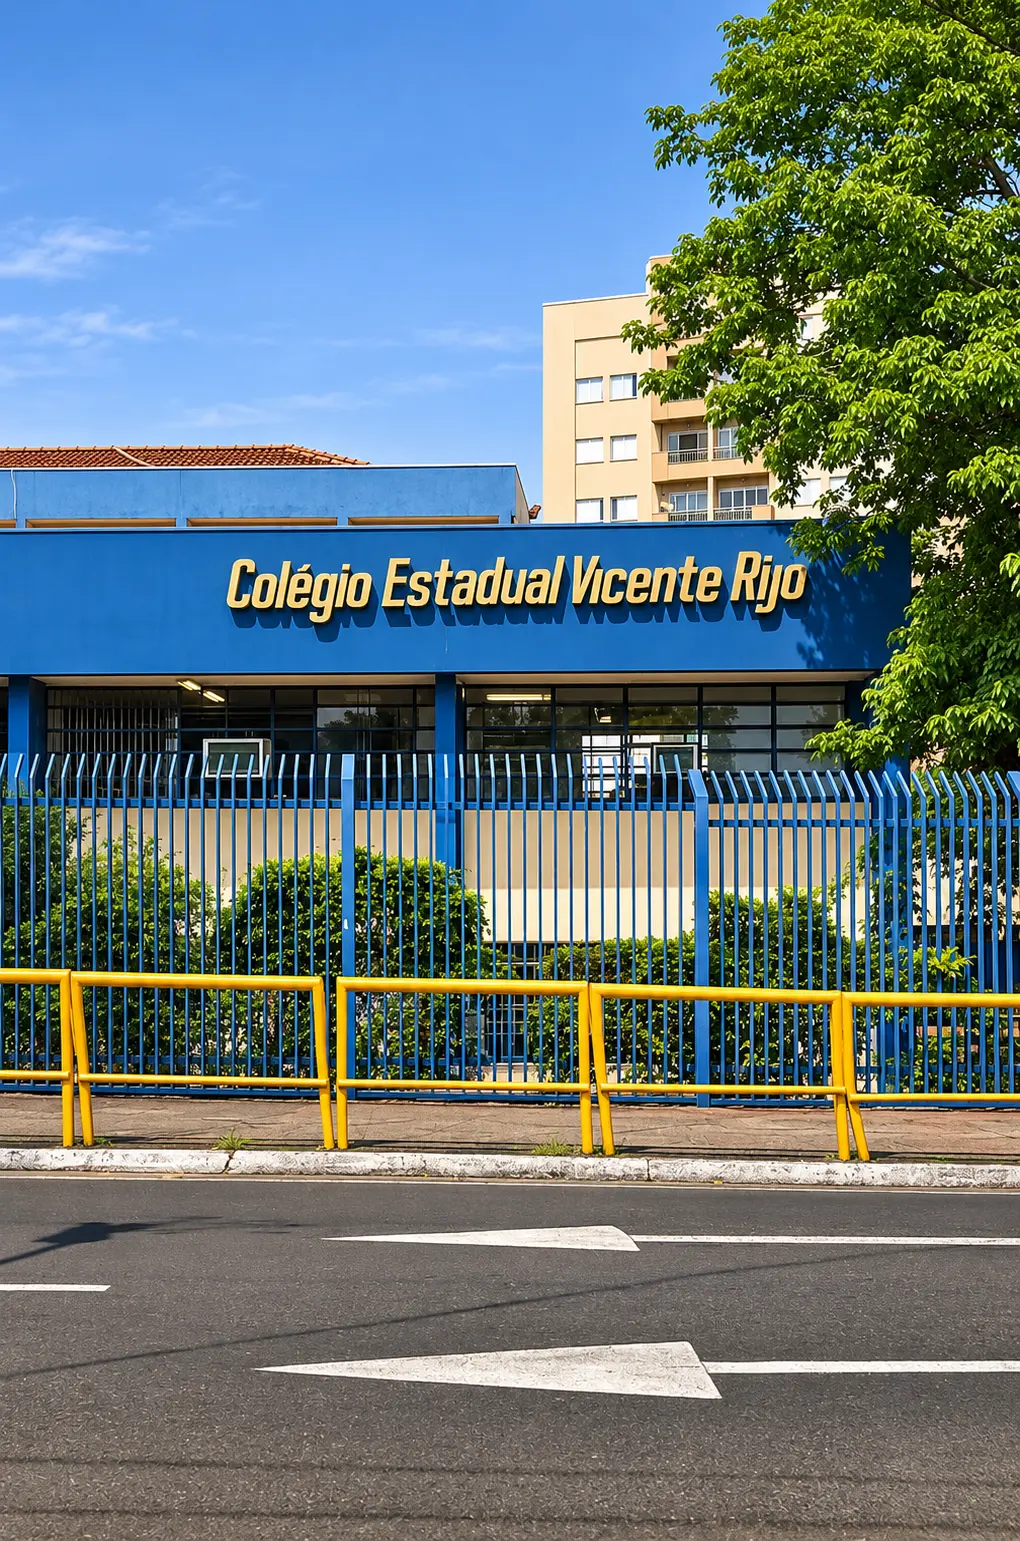
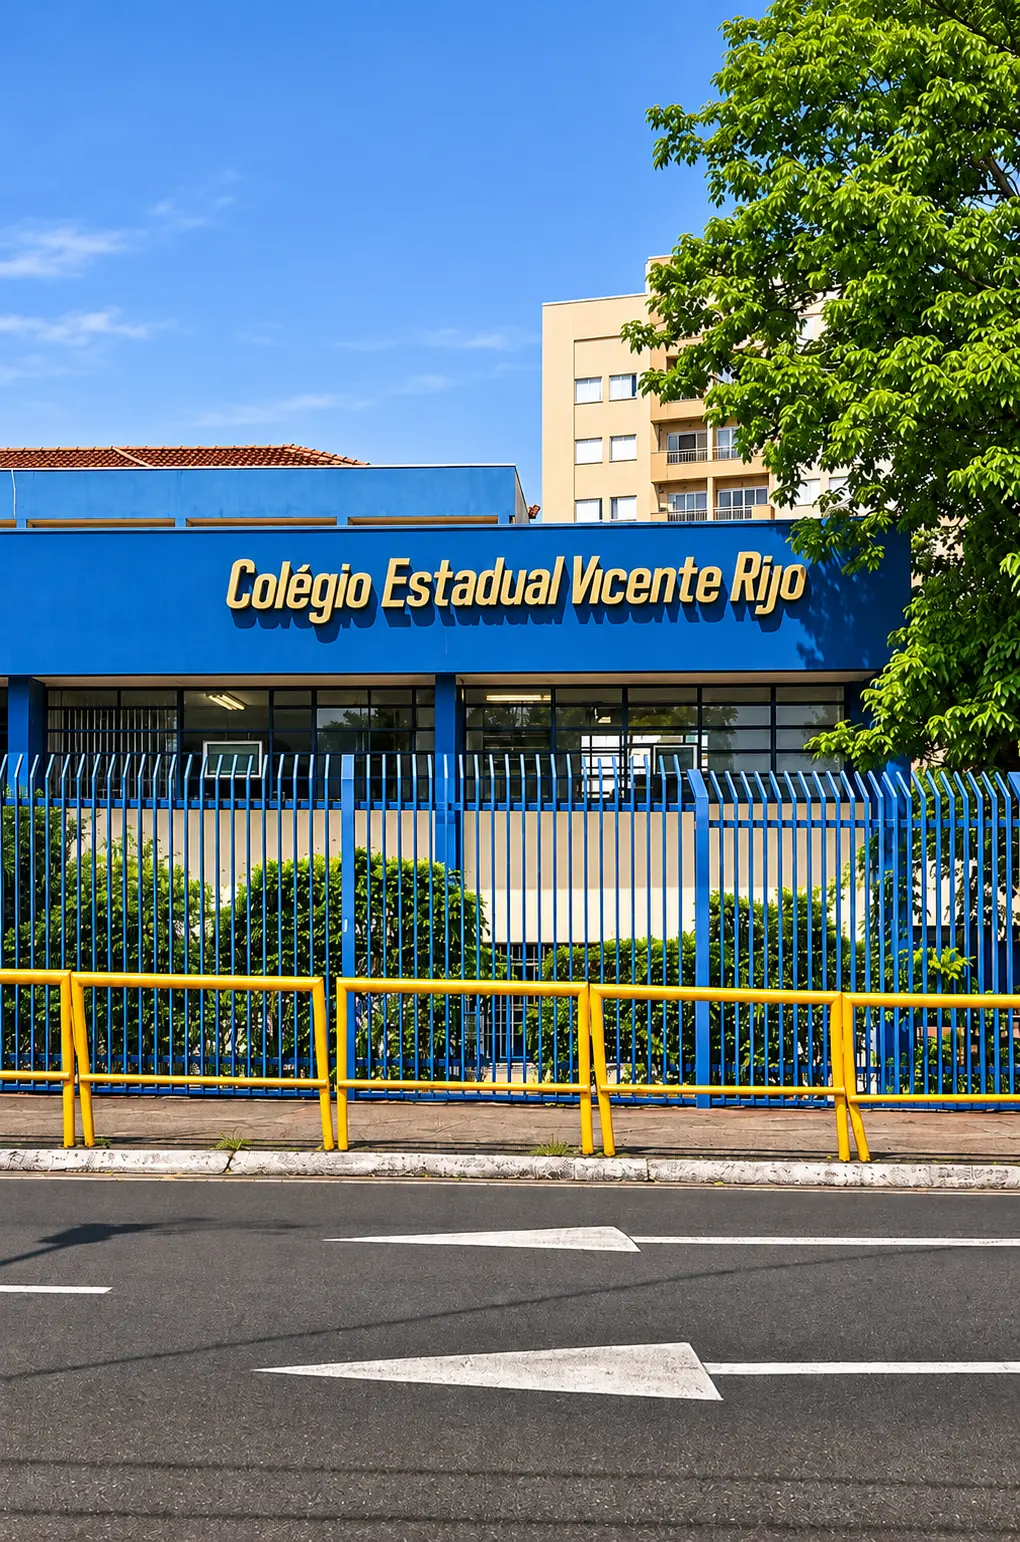
feat(hero): foto da fachada em PNG 1020x1542 e src atualizado
O original passou a ser fachada.png (mesma foto, export correto); as variantes 480/960/1020 foram regeradas e o codigo aponta para /img/hero/fachada.png. LCP medido antes/depois: sem regressao.

diff --git a/src/app/contato/page.tsx b/src/app/contato/page.tsx
@@ -134,7 +134,7 @@ export default function ContatoPage() {
           <div className="flex flex-col gap-6">
             <div className="relative overflow-hidden rounded-3xl border border-navy-100">
               <Image
-                src={"/img/hero/fachada.webp"}
+                src={"/img/hero/fachada.png"}
                 alt="Fachada do Colégio Estadual Vicente Rijo"
                 width={640}
                 height={480}

diff --git a/src/components/sections/Hero.tsx b/src/components/sections/Hero.tsx
@@ -49,7 +49,7 @@ export default function Hero() {
   return (
     <section className="relative min-h-[600px] overflow-hidden bg-navy-950 lg:min-h-[700px]">
       <Image
-        src={"/img/hero/fachada.webp"}
+        src={"/img/hero/fachada.png"}
         alt="Fachada do Colégio Estadual Vicente Rijo"
         fill
         priority
